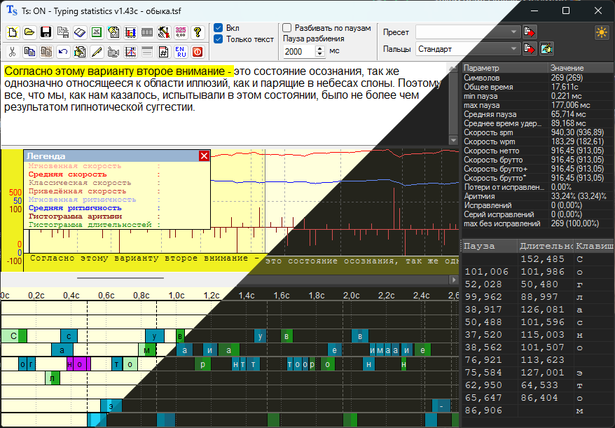
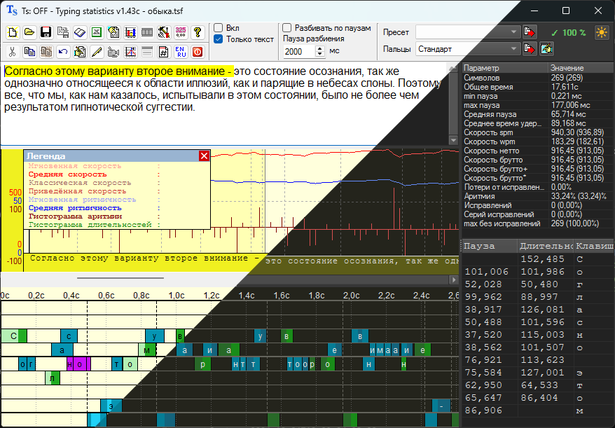
CI: notes and pictures (*.md, docs/, re/) build nothing; one run per commit (a release tag cancels the branch run of the same commit). The themes screenshot of 1.1.0, a time-stamped recording; make_stamped.py --replay

diff --git a/re/scripts/make_stamped.py b/re/scripts/make_stamped.py
@@ -76,25 +76,76 @@ def request_stamp(digest, workdir, service):
         return f.read()
 
 
+def read_records(path):
+    """(dt, flags, ch, comment) of the data lines of a .tsf (version 1)."""
+    out = []
+    with open(path, encoding="cp1251") as f:
+        for line in f.read().splitlines():
+            data, _, comment = line.partition("\t;")
+            parts = data.split()
+            if len(parts) != 2 or "=" in data:
+                continue
+            try:
+                dt, packed = int(parts[0], 16), int(parts[1], 16)
+            except ValueError:
+                continue
+            out.append((dt, packed & 0xFFFFFFFF, packed >> 32, comment))
+    return out
+
+
+def normalized(records):
+    """Recalc::normalized: no leading releases, dt of the first 60 s, auto-repeated modifiers dropped (their time to
+    the next record), the in-memory marks cleared."""
+    out, down, acc, started = [], set(), 0, False
+    for dt, flags, ch, comment in records:
+        up = bool(flags & KEY_UP)
+        if not started:
+            if up:
+                continue
+            started, acc = True, 60000000
+        else:
+            acc += dt
+        vk = (flags >> 16) & 0xFF
+        keep = True
+        if up:
+            down.discard(vk)
+        else:
+            keep = vk not in down or not (vk in (0x5B, 0x5C) or 0xA0 <= vk <= 0xA5)
+            down.add(vk)
+        if keep:
+            out.append((acc & 0xFFFFFFFF, flags & ~(0x100 | 0x40000000), ch, comment))
+            acc = 0
+    return out
+
+
 def main():
     ap = argparse.ArgumentParser()
     ap.add_argument("out")
     ap.add_argument("--compress", type=float, default=1.0)
     ap.add_argument("--services", default="DigiCert,Sectigo,GlobalSign", help="the authorities, in turn")
+    ap.add_argument("--replay", help="a .tsf to play again on the clock (its normalized records, its own timing)")
     args = ap.parse_args()
     services = [s for s in SERVICES if s[0] in args.services.split(",")]
-    rng = random.Random(1)
-    text = "the quick brown fox jumps over the lazy dog "
-    # Planned events: (time, char, up), a pause of 3 s after the first sentence.
-    plan, t = [], 0.3
-    for i, c in enumerate(text * 2):
-        if i == len(text):
-            t += 3.0
-        hold = rng.uniform(0.06, 0.12)
-        plan.append((t, c, False))
-        plan.append((t + hold, c, True))
-        t += rng.uniform(0.09, 0.26)
-    plan.sort()
+    # Planned events: (time, flags, char, dt as written or None - the real one, comment).
+    plan = []
+    if args.replay:
+        t = 0.3
+        for i, (dt, flags, ch, comment) in enumerate(normalized(read_records(args.replay))):
+            if i:
+                t += dt / 1e6
+            plan.append((t, flags, ch, dt, comment))
+    else:
+        rng = random.Random(1)
+        text = "the quick brown fox jumps over the lazy dog "
+        t = 0.3  # a pause of 3 s after the first sentence
+        for i, c in enumerate(text * 2):
+            if i == len(text):
+                t += 3.0
+            hold = rng.uniform(0.06, 0.12)
+            plan.append((t, flags_of(c, False), ord(c), None, ""))
+            plan.append((t + hold, flags_of(c, True), ord(c), None, ""))
+            t += rng.uniform(0.09, 0.26)
+        plan.sort()
 
     workdir = tempfile.mkdtemp()
     start = time.perf_counter()
@@ -118,23 +169,31 @@ def main():
         previous, stamped_end, last_stamp_record_time = digest, end, times[-1]
         print(f"stamp {len(stamps)}: {end} records, delay {delay} ms, {services[(service - 1) % len(services)][0]}")
 
-    for when, c, up in plan:
+    comments = []
+    for when, flags, ch, written, comment in plan:
         wait = start + when - time.perf_counter()
         if wait > 0:
             time.sleep(wait)
         now = time.perf_counter()
-        # The first record: dt 60 s, as the normalization makes it; then the real gaps, "compressed" if asked.
-        dt = 60000000 if not records else int((now - times[-1]) * 1e6 * args.compress)
-        flags = flags_of(c, up)
-        records.append((dt, flags, ord(c)))
+        # The first record: dt 60 s, as the normalization makes it; then the real gaps, "compressed" if asked
+        # (a replayed record keeps its own dt: it comes at that time).
+        if not records:
+            dt = 60000000
+        elif written is not None:
+            dt = written
+        else:
+            dt = int((now - times[-1]) * 1e6 * args.compress)
+        records.append((dt, flags, ch))
+        comments.append(comment)
         times.append(now)
-        encoded += encode(dt, flags, ord(c))
+        encoded += encode(dt, flags, ch)
         if last_stamp_record_time is None or now - last_stamp_record_time >= INTERVAL:
             stamp()
     time.sleep(IDLE)
     stamp()  # the idle one
 
-    lines = ["%08X %012X" % (dt, (ch << 32) | flags) for dt, flags, ch in records]
+    lines = ["%08X %012X" % (dt, (ch << 32) | flags) + ("\t;" + comment if comment else "")
+             for (dt, flags, ch), comment in zip(records, comments)]
     lines += ["tsfVersion=1", "autor=make_stamped.py", "date=" + time.strftime("%d.%m.%Y %H:%M:%S")]
     lines += ["Stamp%d=%d %d 0 %s" % (i + 1, end, delay, __import__("base64").b64encode(token).decode())
               for i, (end, delay, token) in enumerate(stamps)]
